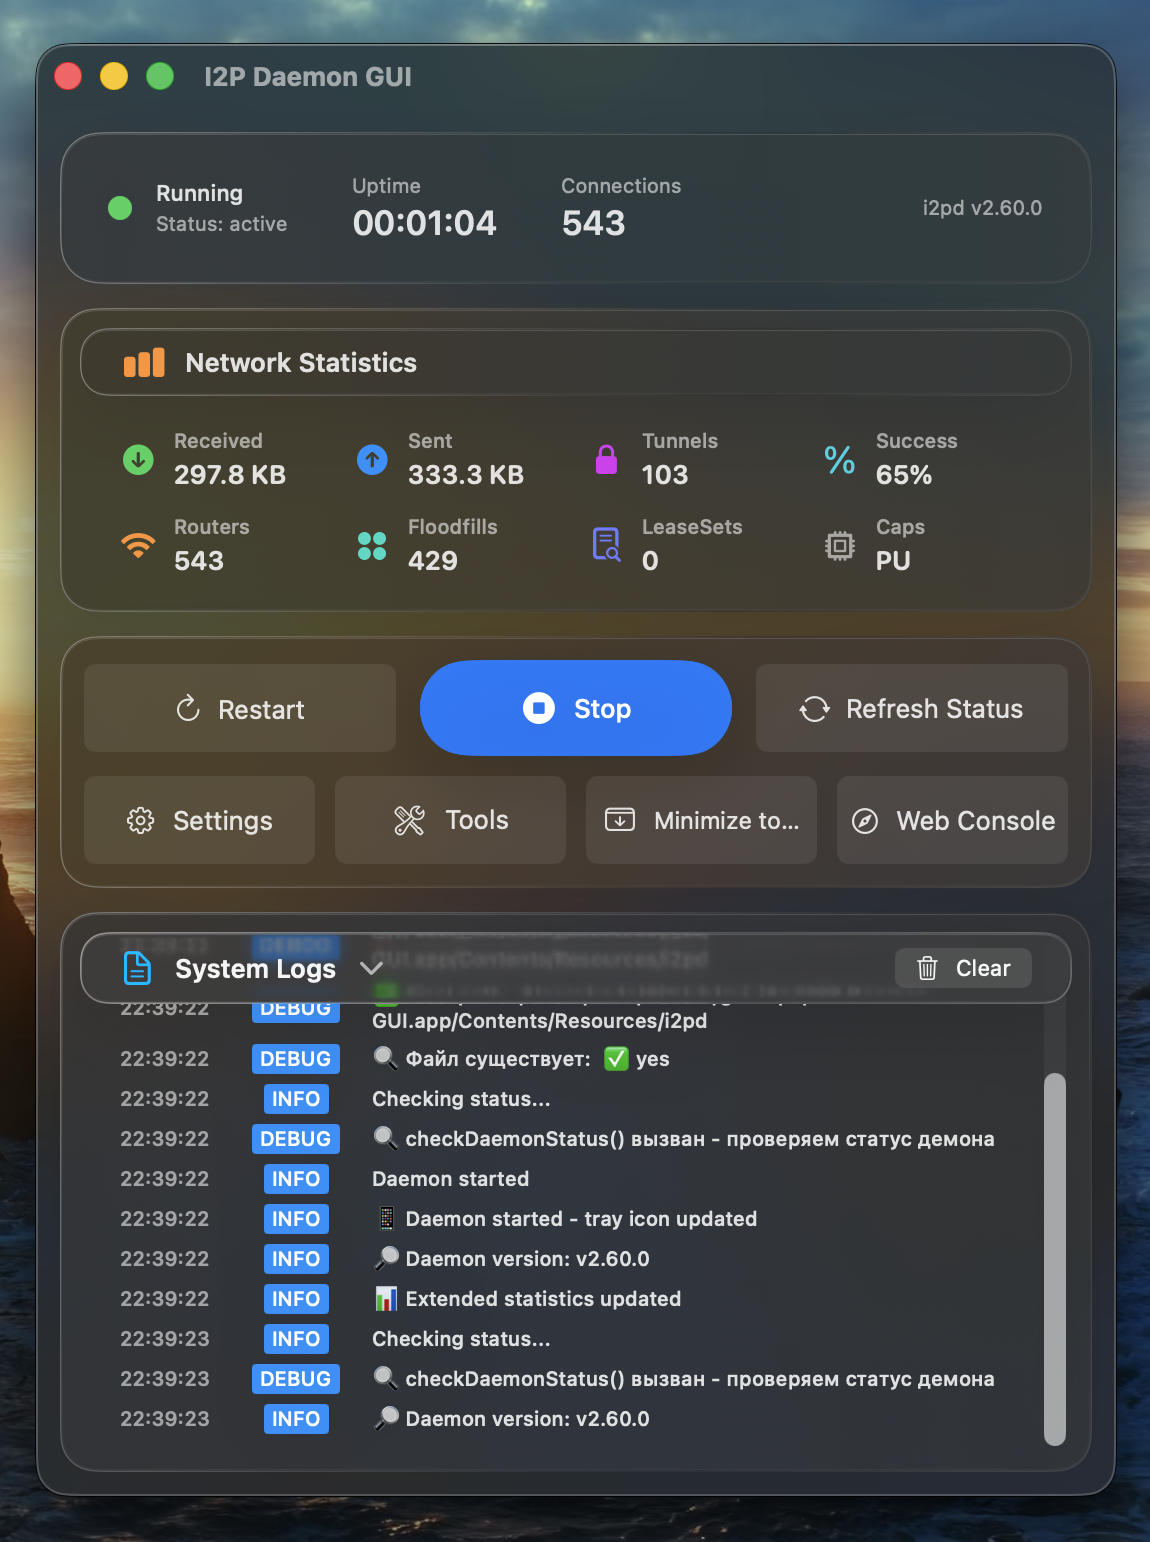
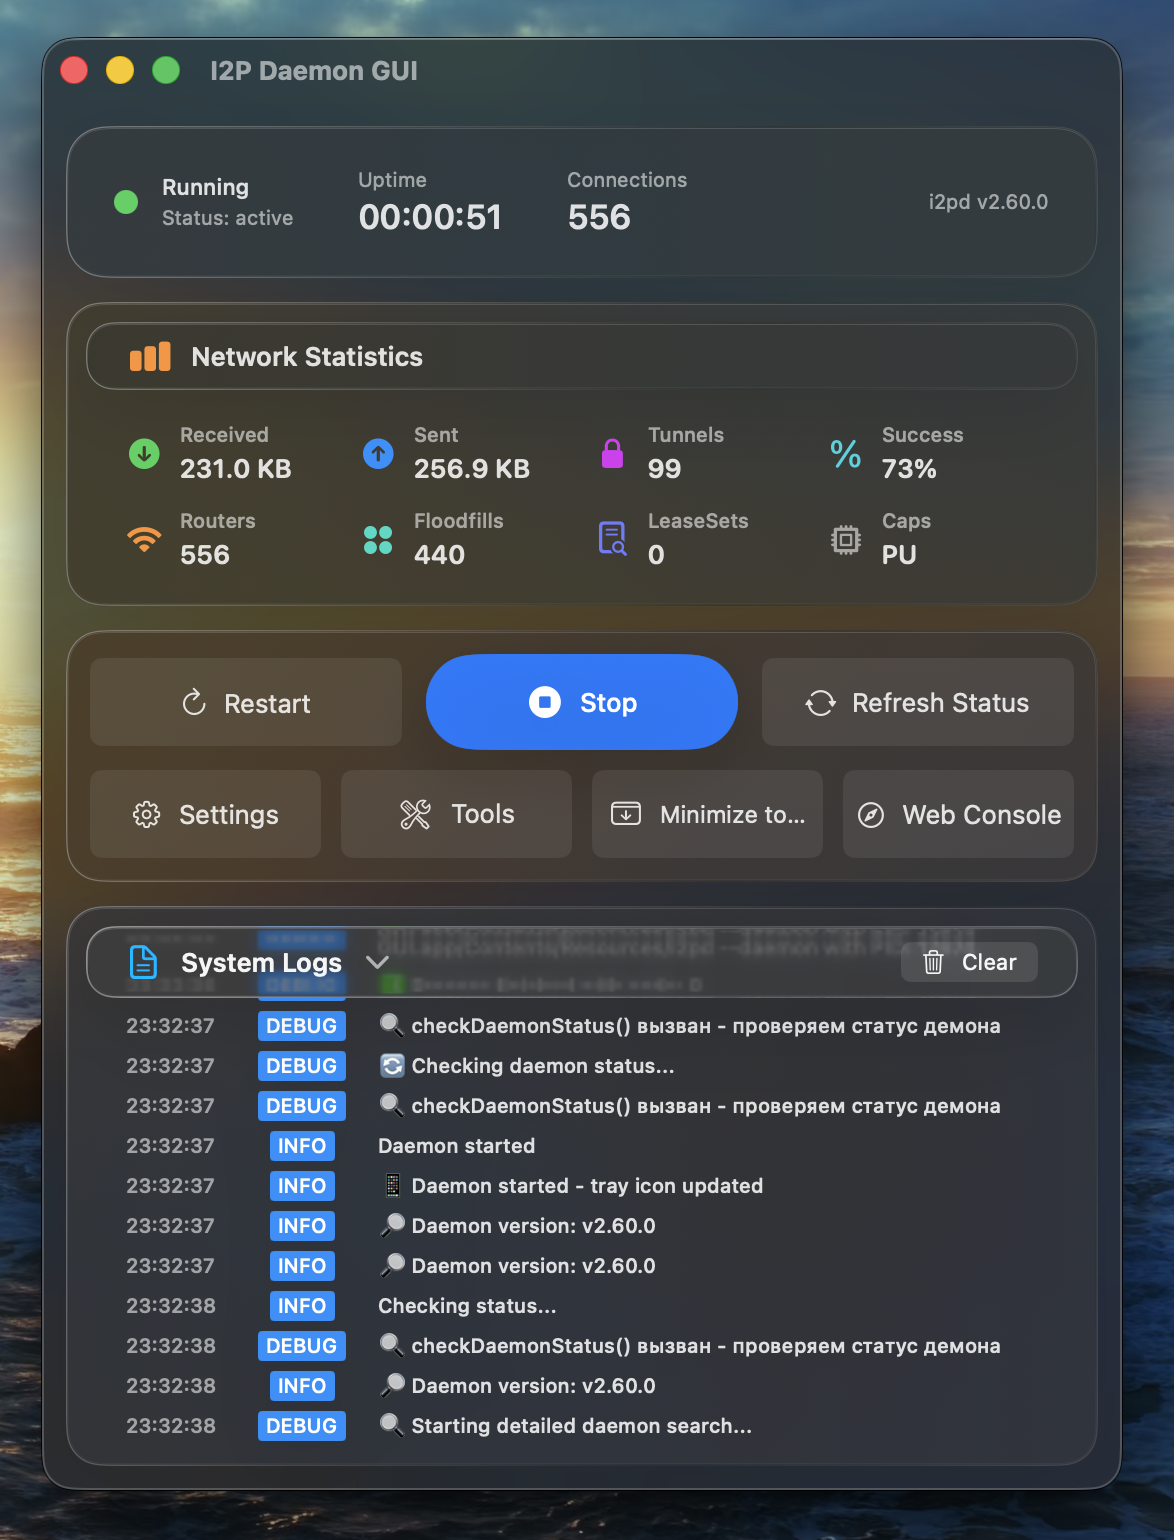
Логи: overlay-скроллер NSScrollView и отступы строк; обновить screenshot1
Made-with: Cursor

diff --git a/Sources/i2pd-gui/AppCore.swift b/Sources/i2pd-gui/AppCore.swift
@@ -110,6 +110,9 @@ private enum MainWindowLayout {
     /// Расстояние между крупными секциями (статус, сеть, кнопки, логи).
     static let sectionSpacing: CGFloat = 12
     static let logPanelInset: CGFloat = 10
+    /// Горизонтальные отступы строки лога: справа меньше — ближе к полосе прокрутки, без смены ширины панели.
+    static let logRowHorizontalLeading: CGFloat = 20
+    static let logRowHorizontalTrailing: CGFloat = 6
     static let sectionHeaderHeight: CGFloat = 36
     /// Минимальная высота скролла логов внутри развёрнутой панели.
     static let expandedLogViewportMinHeight: CGFloat = 160
@@ -139,6 +142,40 @@ private extension NSWindow {
         newFrame.size = size
         newFrame.origin.y = topY - size.height
         setFrame(newFrame, display: true, animate: false)
+    }
+}
+
+private extension NSView {
+    func enclosingNSScrollView() -> NSScrollView? {
+        var v: NSView? = self
+        while let c = v {
+            if let s = c as? NSScrollView { return s }
+            v = c.superview
+        }
+        return nil
+    }
+}
+
+/// SwiftUI `ScrollView` на macOS по умолчанию использует `NSScrollView` в стиле `.legacy`:
+/// вертикальный скроллер в отдельной колонке — заметный зазор до правой рамки панели.
+/// `.overlay` рисует скроллер поверх контента у края (как в системных списках).
+private struct LogPanelScrollViewTrailingFixer: NSViewRepresentable {
+    func makeNSView(context: Context) -> NSView {
+        let v = NSView()
+        v.frame = .zero
+        return v
+    }
+
+    func updateNSView(_ nsView: NSView, context: Context) {
+        DispatchQueue.main.async {
+            guard let scroll = nsView.enclosingNSScrollView() else { return }
+            scroll.scrollerStyle = .overlay
+            var si = scroll.scrollerInsets
+            si.right = 0
+            scroll.scrollerInsets = si
+            scroll.contentView.automaticallyAdjustsContentInsets = false
+            scroll.contentView.contentInsets = .init()
+        }
     }
 }
 
@@ -657,7 +694,8 @@ struct ContentView: View {
                                         .multilineTextAlignment(.leading)
                                         .fixedSize(horizontal: false, vertical: true)
                                 }
-                                .padding(.horizontal, 20)
+                                .padding(.leading, MainWindowLayout.logRowHorizontalLeading)
+                                .padding(.trailing, MainWindowLayout.logRowHorizontalTrailing)
                                 .padding(.vertical, 1)
                             }
 
@@ -674,8 +712,15 @@ struct ContentView: View {
                                         .foregroundColor(.secondary)
                                 }
                                 .frame(maxWidth: .infinity)
+                                .padding(.horizontal, MainWindowLayout.logRowHorizontalLeading)
                                 .padding(.vertical, 40)
                             }
+
+                            // Якорь внутри документа скролла — ищем родительский NSScrollView и поджимаем скроллер к краю.
+                            Color.clear
+                                .frame(width: 1, height: 1)
+                                .accessibilityHidden(true)
+                                .background(LogPanelScrollViewTrailingFixer())
                         }
                         .padding(.top, MainWindowLayout.sectionHeaderHeight)
                         .padding(.bottom, 8)
